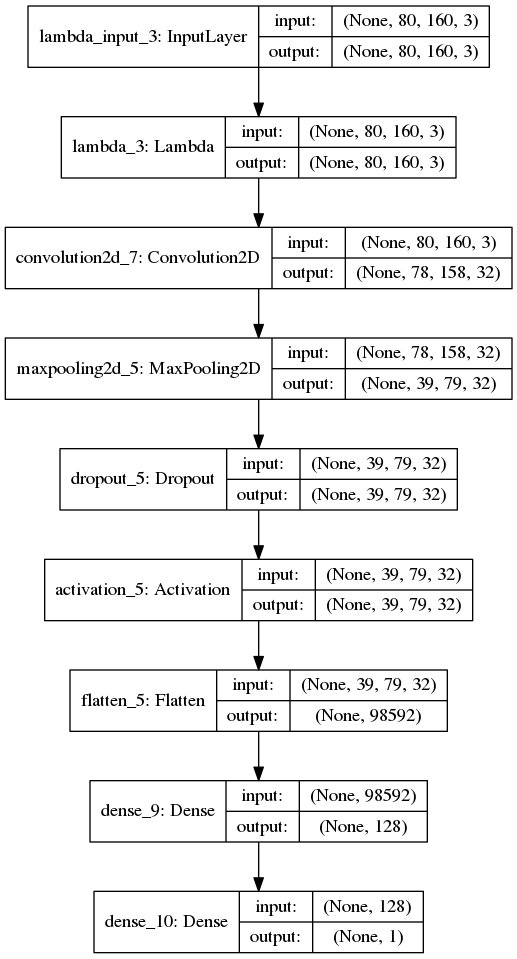
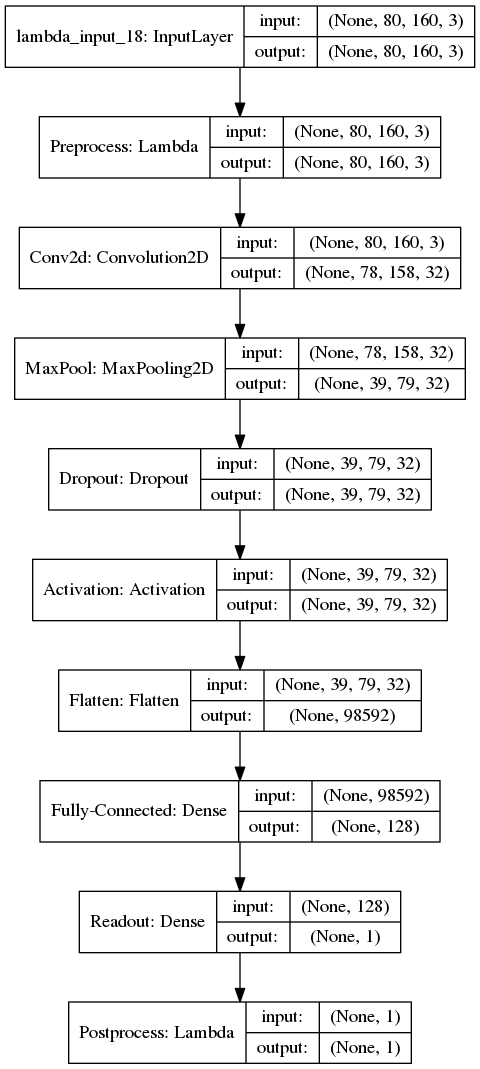
Got the model to overtrain on 10 examples
That's good.

Changed region(s): [[0.0, 0.0, 1.0, 0.9979]]

diff --git a/model.py b/model.py
@@ -1,6 +1,7 @@
 # Imports
 
-from keras.layers import Conv2D, Flatten, MaxPooling2D, Activation, Dense, Input, Dropout, Lambda
+from keras.layers import Conv2D, Flatten, MaxPooling2D, Activation, Dense, Input, Dropout, Lambda, ELU
+from keras.layers.convolutional import Convolution2D
 from keras.models import Sequential
 from keras.utils import np_utils
 from keras.utils.visualize_util import plot
@@ -44,16 +45,20 @@ def input_generator(index_file, image_base):
 image_shape = [160, 320, 3]
 input_shape = [x//2 for x in image_shape[:2]] + image_shape[2:]
 
-model = Sequential()
-# model.add(Lambda(lambda x: x/127.5 - 1., input_shape=input_shape, output_shape=input_shape, trainable=False, name="Preprocess"))
-model.add(Conv2D(32, 3, 3, name="Conv2d"), input_shape=input_shape)
-model.add(MaxPooling2D((2,2), name="MaxPool"))
-model.add((Dropout(0.5, name="Dropout")))
-model.add(Activation("relu", name="Activation"))
-model.add(Flatten(name="Flatten"))
-model.add(Dense(128, activation="relu", name="Fully-Connected"))
-model.add(Dense(1, activation="sigmoid", name="Readout"))
-# model.add(Lambda(lambda x: 2.*x-1., trainable=False, name="Postprocess"))
+def CarND(in_shape):
+    model = Sequential()
+    model.add(Lambda(lambda x: x/127.5 - 1., input_shape=in_shape, output_shape=input_shape, trainable=False, name="Preprocess"))
+    model.add(Conv2D(32, 3, 3, name="Conv2d", input_shape=input_shape))
+    model.add(MaxPooling2D((2,2), name="MaxPool"))
+    model.add((Dropout(0.5, name="Dropout")))
+    model.add(Activation("relu", name="Activation"))
+    model.add(Flatten(name="Flatten"))
+    model.add(Dense(128, activation="relu", name="Fully-Connected"))
+    model.add(Dense(1, activation="sigmoid", name="Readout"))
+    model.add(Lambda(lambda x: 2.*x-1., trainable=False, name="Postprocess"))
+    return model
+
+model = CarND(input_shape)
 model.summary()
 
 # Visualize
@@ -64,8 +69,8 @@ plot(model, to_file="model.png", show_shapes=True)
 
 model.compile(loss="mse", optimizer="adam", metrics=["accuracy"])
 
-datagen = input_generator("data/driving_log_head.csv", "data/")
-history = model.fit_generator(datagen, 9, 5, verbose=2)
+datagen = input_generator("data/sample.csv", "data/")
+history = model.fit_generator(datagen, 10, 5, verbose=2)
 
 # Test
 
@@ -76,4 +81,3 @@ history = model.fit_generator(datagen, 9, 5, verbose=2)
 # model.save("model.h5")
 # with open("model.json", "w") as f:
 #     f.write(model.to_json())
-
